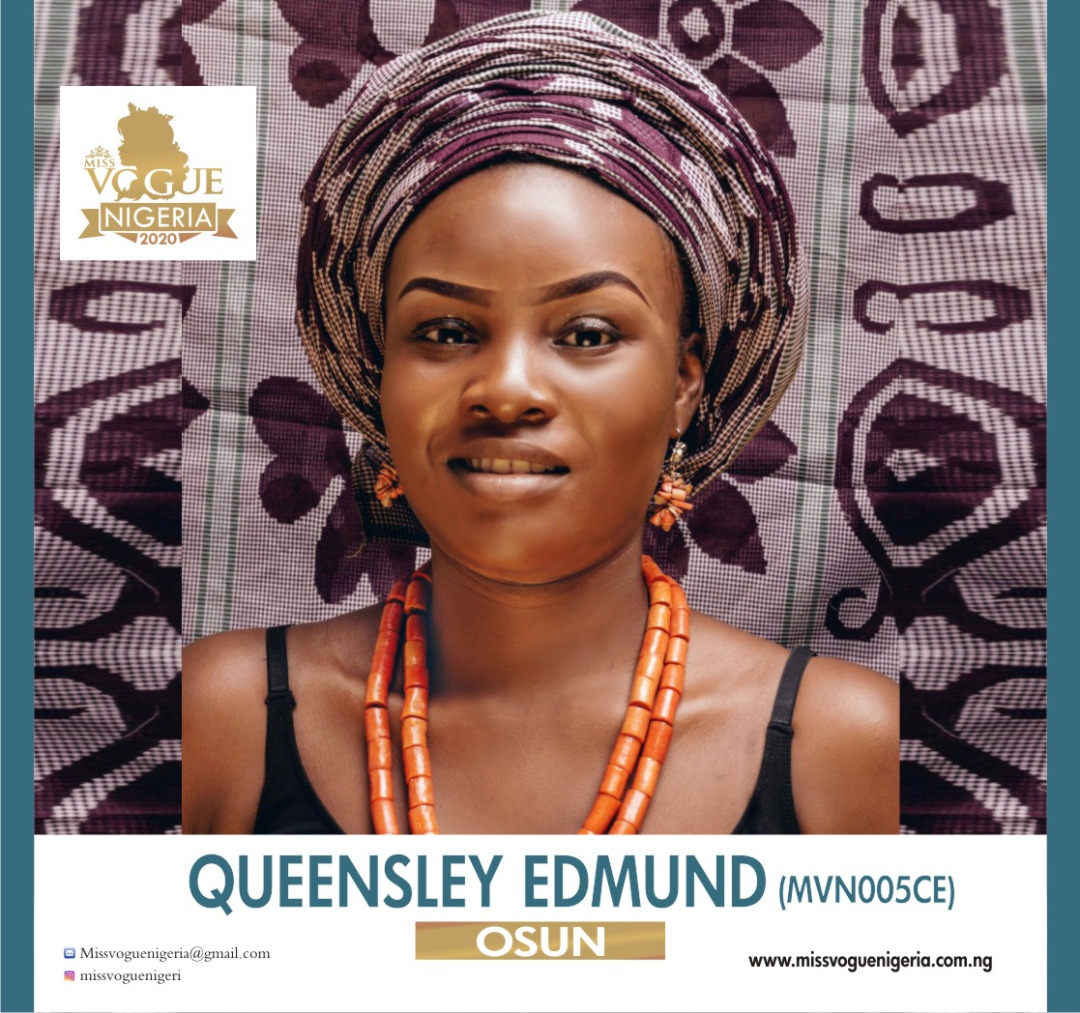
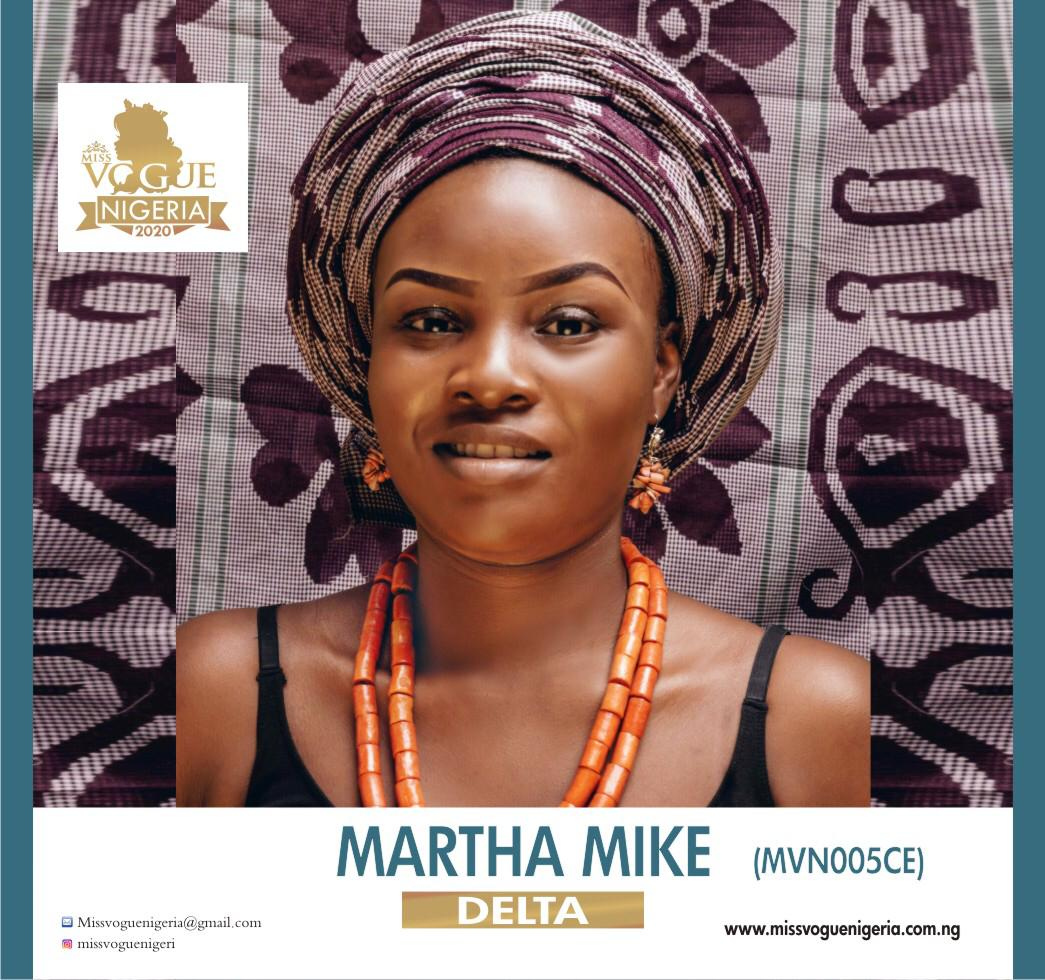
chnaged model pictures, added admin registration and login and model. Also added authentification for admin

Changed region(s): [[0.0612, 0.8265, 0.888, 0.9796], [0.7349, 0.949, 0.8574, 0.9796], [0.888, 0.949, 0.9187, 0.9796]]

diff --git a/routes/api/adminRoutes.js b/routes/api/adminRoutes.js
@@ -1,0 +1,60 @@
+const dotenv = require("dotenv")
+dotenv.config()
+
+const router = require("express").Router()
+const AdminModel = require("../../models/adminModel");
+
+const jwt = require("jsonwebtoken")
+
+const bcrypt = require("bcrypt")
+
+
+
+router.post("/login", async (req, res) => {
+    const body = req.body
+    console.log(body)
+    console.log(req.body)
+    const data = await AdminModel.findOne({ username: body.username })
+    if (data) {
+        const isPass = await bcrypt.compare(body.password, data.password)
+        if (isPass) {
+            const token = await jwt.sign({
+                username: data.username,
+                user_id: data._id,
+
+            }, process.env.JWT_SECRET_TOKEN_KEY, {
+                expiresIn: "14h"
+            })
+            return res.status(200).json(
+                {
+                    body: data,
+                    token
+                }
+            )
+        } else {
+            res.status(401).send("Invalid user name or password")
+        }
+
+    } else {
+        res.status(401).send("Invalid user name or password")
+    }
+
+})
+
+router.post("/", async (req, res) => {
+    const password = await bcrypt.hash(req.body.password, 12)
+    console.log(password)
+    const data = {
+        username: req.body.username,
+        password
+    }
+    const admin = new AdminModel(data)
+    const savedData = await admin.save()
+    res.status(200).json(savedData)
+})
+
+
+
+
+
+module.exports = router

diff --git a/models/adminModel.js b/models/adminModel.js
@@ -1,0 +1,38 @@
+const mongoose = require("mongoose")
+const dotenv = require("dotenv")
+dotenv.config()
+
+const URI = process.env.URI;
+// console.log(URI)
+mongoose.connect(URI, { useNewUrlParser: true, useUnifiedTopology: true, useFindAndModify: false }, (err) => {
+    if (err) {
+        throw err
+        return
+    }
+    console.log("Database connected!!")
+})
+
+
+
+const Schema = new mongoose.Schema({
+    username: {
+        type: String,
+        required: true,
+        unique: true
+    },
+    createdAt: {
+        type: Date,
+        default: Date.now
+    },
+    password: {
+        type: String,
+        required: true
+    }
+
+})
+
+
+const Admin = mongoose.model("Admin", Schema)
+
+
+module.exports = Admin

diff --git a/public/css/style.css b/public/css/style.css
@@ -645,7 +645,12 @@ footer .rights {
   font-size: 1.6rem;
   border-bottom: 1px solid gold;
   padding-bottom: 10px;
-  column-gap: 20px;
+}
+.contestant .image-wrapper {
+  width: 100%;
+}
+.contestant .image-wrapper img {
+  width: 100%;
 }
 
 .fa.controls {
@@ -676,6 +681,7 @@ footer .rights {
   align-items: center;
   width: 100vw;
   padding: 30px 15px;
+  height: 100vh;
 }
 .login .caption {
   margin-bottom: 20px;
@@ -704,6 +710,7 @@ footer .rights {
   border: 1px solid gold;
   padding: 20px;
   border-radius: 4px;
+  max-width: 500px;
 }
 
 @media only screen and (min-width: 769px) {

diff --git a/controlers/adminRoutes.js b/controlers/adminRoutes.js
@@ -1,7 +1,7 @@
 const router = require("express").Router()
 const ContestantsModel = require("../models/contestantsModel");
 
-
+const adminAuthenticated = require("../middleware/admin-auth-check")
 
 
 router.get("/login", async (req, res) => {
@@ -11,7 +11,7 @@ router.get("/login", async (req, res) => {
 
 
 router.get("/dashboard", async (req, res) => {
-    const contestants = await ContestantsModel.find().sort({ votes: -1 })
+    const contestants = await ContestantsModel.find()
     let totalVotes = 0;
     contestants.forEach(contestant => {
         totalVotes += contestant.votes

diff --git a/server.js b/server.js
@@ -4,6 +4,9 @@ const methodOverride = require("method-override")
 const ContestantsModel = require("./models/contestantsModel");
 
 const adminRoutes = require("./controlers/adminRoutes");
+const contestantsAPI = require("./routes/api/contestantsRoutes")
+
+const adminAPI = require("./routes/api/adminRoutes")
 
 
 app.set("view engine", "ejs")
@@ -46,6 +49,9 @@ app.get("/votes", async (req, res) => {
 })
 
 
+
+app.use("/api/contestants", contestantsAPI)
+app.use("/api/admin", adminAPI)
 app.use("/admin", adminRoutes)
 
 

diff --git a/middleware/admin-auth-check.js b/middleware/admin-auth-check.js
@@ -1,0 +1,20 @@
+const jwt = require("jsonwebtoken")
+const dotenv = require("dotenv")
+dotenv.config()
+
+
+
+module.exports = function (req, res, next) {
+    try {
+
+        const token = req.headers.authorization.split(" ")[1]
+        console.log(token)
+        const decoded = jwt.verify(token, process.env.JWT_SECRET_TOKEN_KEY)
+        req.userData = decoded
+        console.log(decoded)
+        next()
+    } catch (err) {
+        res.redirect("/admin/login")
+    }
+
+}

diff --git a/routes/api/contestantsRoutes.js b/routes/api/contestantsRoutes.js
@@ -1,0 +1,13 @@
+const router = require("express").Router()
+const ContestantsModel = require("../../models/contestantsModel");
+const adminAuthenticated = require("../../middleware/admin-auth-check")
+
+router.get("/", adminAuthenticated, async (req, res) => {
+    const data = await ContestantsModel.find()
+
+    res.status(200).json(data)
+})
+
+
+
+module.exports = router

diff --git a/sass_partials/_admin-login.scss b/sass_partials/_admin-login.scss
@@ -9,6 +9,7 @@ $primary-color-3:#141414;
     align-items: center;
     width: 100vw;
     padding: 30px 15px;
+    height: 100vh;
 
     .caption{
         margin-bottom: 20px;
@@ -38,5 +39,6 @@ $primary-color-3:#141414;
     border: 1px solid $primary-color-1;
     padding: 20px;
     border-radius: 4px;
+    max-width: 500px;
 
 }

diff --git a/sass_partials/_admin-dashboard.scss b/sass_partials/_admin-dashboard.scss
@@ -109,7 +109,12 @@ $primary-color-3:#141414;
     font-size: 1.6rem;
     border-bottom: 1px solid $primary-color-1;
     padding-bottom: 10px;
-    column-gap: 20px;
+    .image-wrapper{
+        width: 100%;
+        img{
+            width: 100%;
+        }
+    }
 }
 
 
